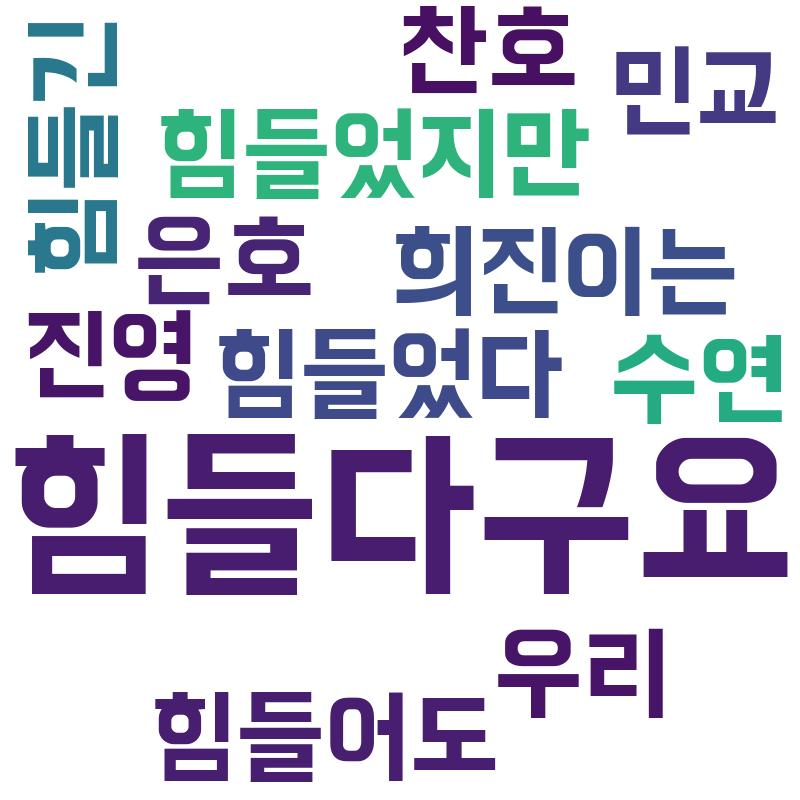
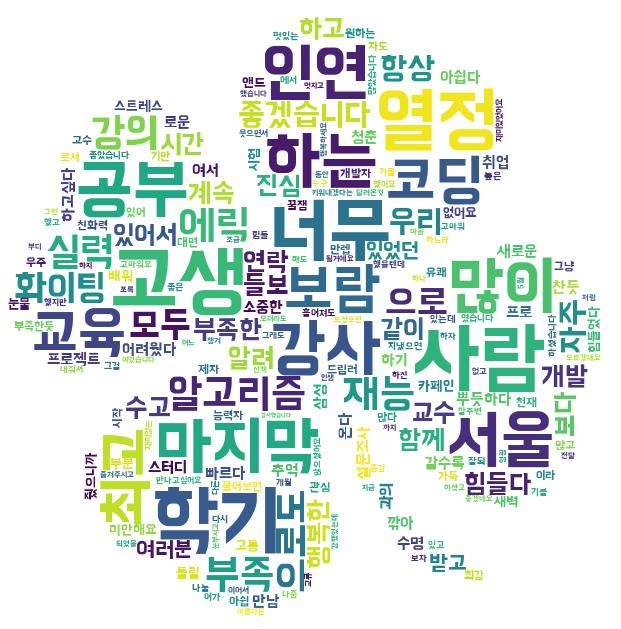
suyeon/ 워드클라우드 수정

diff --git a/roll_paper/templates/roll_paper/letterbox.html b/roll_paper/templates/roll_paper/letterbox.html
@@ -1,6 +1,10 @@
 {% extends 'base.html' %}
 
+{% load static %}
+
 {% block content %}
+
+<img src="{% static '워드클라우드.jpg' %}" alt="">
   <header class="m-5">
     <h2 class="align-middle">편지함 📫</h2>
   </header>

diff --git a/roll_paper/views.py b/roll_paper/views.py
@@ -99,9 +99,32 @@ def complete(request):
 @require_GET
 def letterbox(request, user_pk):
 
+    with open('임시.txt', 'r', encoding='utf-8') as f:
+        text = f.read()
+
+    okt = Okt()
+    morphs = okt.morphs(text)
+
+    words = [n for n in morphs if len(n) > 1]
+
+    c = Counter(words)
+
+    img = Image.open('./static/네잎클로버.jpeg')
+    img_array = np.array(img)
+
+    wc = WordCloud(
+        font_path='static/css/BMHANNA_11yrs_ttf.ttf', 
+        width=400, height=400, scale=0.8, 
+        max_font_size=100, 
+        background_color="white", 
+        mask=img_array
+        ).generate_from_frequencies(c)
+    wc.to_file('./static/워드클라우드.jpg')
+
+
     if request.user.pk == user_pk:
         now = datetime.now()
-        target_day = datetime(year=2022, month=5, day=27, hour=0, minute=0, second=0)
+        target_day = datetime(year=2022, month=5, day=15, hour=0, minute=0, second=0)
         if now > target_day:
             user_info = request.user
             my_rollpaper = RollPaper.objects.filter(user=request.user)
@@ -223,9 +246,16 @@ def wordCloud(request):
 
     c = Counter(words)
 
-    wc = WordCloud(font_path='static/css/BMHANNA_11yrs_ttf.ttf', width=400, height=400, scale=2.0, max_font_size=100, background_color="white").generate_from_frequencies(c) # 'font_path'=''
-    # plt.figure(figsize = (6, 6)) # 최종 워드 클라우드 사이즈 지정
-    # a = plt.imshow(wc)
+    img = Image.open('./static/네잎클로버.jpeg')
+    img_array = np.array(img)
+
+    wc = WordCloud(
+        font_path='static/css/BMHANNA_11yrs_ttf.ttf', 
+        width=400, height=400, scale=0.8, 
+        max_font_size=100, 
+        background_color="white", 
+        mask=img_array
+        ).generate_from_frequencies(c)
     wc.to_file('./static/워드클라우드.jpg')
     
     context = {
